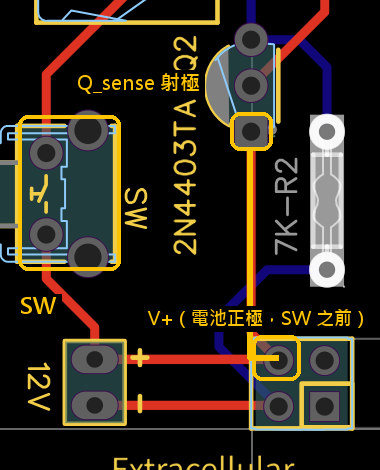
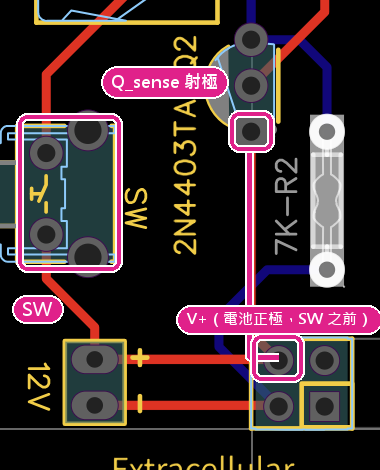
Modern Bioelectricity: caption under the title, magenta marks on the handout crops, sidebar follows tall regions [MB-018]

diff --git a/modern-bioelectricity/hw2-lab/app.js b/modern-bioelectricity/hw2-lab/app.js
@@ -490,20 +490,32 @@
     $$('.mode button').forEach(function(b){ b.setAttribute('aria-pressed', b.dataset.mode === m ? 'true' : 'false'); });
     Object.keys(SIMS).forEach(function(k){ var s = SIMS[k]; syncControls(s); drawSchematic(s); });
     if(active){ var a = active; active = null; activate(a); }
+    queueNav();                                        /* region heights change with the mode */
   }
   $$('.mode button').forEach(function(b){ b.addEventListener('click', function(){ setMode(b.dataset.mode); }); });
 
-  var navLinks = $$('nav.regions a');
+  /* sims start when half their region is on screen (they are one screen tall) */
   var io = new IntersectionObserver(function(entries){
     entries.forEach(function(e){
-      if(e.isIntersecting && e.intersectionRatio >= 0.5){
-        navLinks.forEach(function(a){ a.classList.toggle('on', a.getAttribute('href') === '#' + e.target.id); });
-        var key = e.target.dataset.sim;
-        if(key){ var s = SIMS[key]; activate(s); sizeCanvas(s); }
-      }
+      if(e.isIntersecting && e.intersectionRatio >= 0.5){ var s = SIMS[e.target.dataset.sim]; activate(s); sizeCanvas(s); }
     });
   }, {root:$('#main'), threshold:[0.5]});
-  $$('.region').forEach(function(r){ io.observe(r); });
+  $$('.region[data-sim]').forEach(function(r){ io.observe(r); });
+  /* sidebar: the region crossing the upper third of the screen.  A ratio threshold misses text regions
+     taller than two screens, which never get half on screen. */
+  var navLinks = $$('nav.regions a'), regions = $$('.region'), navOn = null;
+  function syncNav(){
+    var cut = window.innerHeight * 0.33, cur = regions[0];
+    regions.forEach(function(r){ if(r.offsetParent !== null && r.getBoundingClientRect().top <= cut) cur = r; });
+    if(cur === navOn) return;
+    navOn = cur;
+    navLinks.forEach(function(a){ a.classList.toggle('on', a.getAttribute('href') === '#' + cur.id); });
+  }
+  function queueNav(){ syncNav(); }                 /* scroll events come once a frame; six rects are cheap */
+  $('#main').addEventListener('scroll', queueNav, {passive:true});
+  window.addEventListener('scroll', queueNav, {passive:true});        /* phones: the page itself scrolls */
+  window.addEventListener('resize', queueNav);
+  syncNav();
 
   $$('[data-fs]').forEach(function(b){
     b.addEventListener('click', function(){

diff --git a/modern-bioelectricity/hw2-lab/index.html b/modern-bioelectricity/hw2-lab/index.html
@@ -133,7 +133,7 @@ select,input[type=number]{font-size:12.5px;padding:2px 4px;border:1px solid var(
 .small{font-size:12.5px} .muted{color:var(--muted)}
 
 /* ---------- 0 電路圖與 PCB 的差別 ---------- */
-.r0-one{font-size:18px;font-weight:700;line-height:1.5;margin:4px 0 10px;max-width:60em}
+.r0-one{font-size:15px;font-weight:500;line-height:1.55;margin:2px 0 10px;max-width:60em;color:var(--muted)}
 .r0-big{margin:0 0 10px;background:var(--surface);border:1px solid var(--rule);border-radius:8px;padding:6px}
 .r0-big figcaption{font-size:12.5px;color:var(--muted);margin:4px 2px 0}
 .r0-ov{display:block;width:100%;height:auto;border-radius:4px}
@@ -237,7 +237,7 @@ select,input[type=number]{font-size:12.5px;padding:2px 4px;border:1px solid var(
 <!-- ======================= 0 電路圖與 PCB 的差別 ======================= -->
 <section class="region textreg" id="r0">
   <h2>0 電路圖與 PCB 的差別</h2>
-  <p class="r0-one">PCB 有 3 處接得和講義電路圖不同：照 PCB 做，膜沒有靜止電位，也做不出 AP。</p>
+  <p class="r0-one">底圖：講義的 #2-3 電路圖。<span class="k-p">紅色</span>＝PCB 實際的接法。<b>點紅色標記</b>看這個差別造成什麼問題。</p>
   <figure class="r0-big">
     <svg class="r0-ov" viewBox="0 0 1185 432" role="group" aria-label="講義 #2-3 電路圖，紅色標出 PCB 實際的接法">
       <rect x="0" y="0" width="1185" height="432" fill="#fff"/>
@@ -279,7 +279,6 @@ select,input[type=number]{font-size:12.5px;padding:2px 4px;border:1px solid var(
         <g class="badge"><circle cx="922" cy="282" r="13"/><text x="922" y="287.5">3</text></g>
       </g>
     </svg>
-    <figcaption>底圖：講義的 #2-3 電路圖。<span class="k-p">紅色</span>＝PCB 實際的接法。<b>點紅色標記</b>看這個差別造成什麼問題。</figcaption>
   </figure>
 
   <details class="card r0-more"><summary>數字對照：照電路圖 vs 照 PCB vs 實測<span class="hint">模擬與我們組的量測</span></summary><div class="body">

diff --git a/modern-bioelectricity/log/2026-10.md b/modern-bioelectricity/log/2026-10.md
@@ -136,3 +136,22 @@
 - 檔案／commit：`hw2-lab/index.html`、`hw2-lab/app.js`、`hw2-lab/img/`（sch23.png 與 d1–d3 的裁切圖，從講義 docx 取出並標記）
 - 測試：瀏覽器確認三個標記位置正確、hover 發光、點擊開窗與關閉、圖片載入；手機寬度無水平捲動、視窗內圖改成上下排。
 - 狀態：有效
+
+## MB-017 · 2026-10-16 · 指令
+- 提出：使用者
+- 指令：
+  > 1. "底圖：講義的 #2-3 電路圖。紅色＝PCB 實際的接法。點紅色標記看這個差別造成什麼問題。" 這句話改到標題下方，"PCB 有 3 處接得和講義電路圖不同：照 PCB 做，膜沒有靜止電位，也做不出 AP。" 這句刪掉。
+  > 2. "電路圖與 PCB 的差別" 展開圖的標記換顏色。目前電路圖用紅色而 PCB 用黃黑，很醜而且和PCB本身融為一體，很不明顯。選一個在 電路圖和PCB 都明顯可見的有質感一些的配色，
+  > 3. sidebar 換區域的時候框框沒有跟上
+- 相關：MB-018
+- 狀態：完成
+
+## MB-018 · 2026-10-16 · 變更
+- 提出：使用者（MB-017）
+- 做了：
+  - 說明句移到「0 電路圖與 PCB 的差別」標題下方，刪掉結論句。
+  - 視窗裡的講義裁切圖（d1–d3）全部改用同一個標記色：洋紅 #E0218A 外加白色細邊；文字改成洋紅底白字的膠囊標籤。白底電路圖和黑底 PCB 上都清楚，也不會和 PCB 本身的紅、藍走線與黃色絲印混在一起。大圖上的紅色 PCB 接法不變。
+  - 側欄框框：原本用「區域有 50 % 在畫面裡」判斷，比兩個畫面還高的文字區域（1 摘要：基礎 2432 px、進階 4286 px）永遠到不了 50 %，框框就停在上一個。改成「跨過畫面上方 1/3 的那個區域」，捲動時直接更新；模擬啟動仍用 50 % 規則（模擬區都是一個畫面高）。手機版（整頁捲動）也會更新。
+- 檔案／commit：`hw2-lab/index.html`、`hw2-lab/app.js`、`hw2-lab/img/d1–d3-*.png`
+- 測試：真實滾輪捲動到 1 摘要中段時框在 #r1、到 #2-1 時在 #r2（手機版）；桌面版送出捲動事件後依序是 r1、r3、r5；切換基礎／進階後重新判斷。
+- 狀態：有效

diff --git a/modern-bioelectricity/log/INDEX.md b/modern-bioelectricity/log/INDEX.md
@@ -20,3 +20,5 @@
 | MB-014 | 2026-10-16 | 指令 | 講義檔已放入；差別圖拿掉 SO R2；改成一張以 #2-3 電路圖為底、可點擊的大圖 | hw2-lab, pcb | 完成 |
 | MB-015 | 2026-10-16 | 測試 | 用講義 PCB 圖確認 3 處差別；R2 100 Ω 是料給錯；絲印 12V、可變電阻 10 kΩ；重算照電路圖 8.36 V | hw2, pcb, 講義 | 有效 |
 | MB-016 | 2026-10-16 | 變更 | 差別區改成一張大圖：講義 #2-3 電路圖＋紅色 PCB 接法，hover 發光、點擊開窗 | hw2-lab, pcb | 有效 |
+| MB-017 | 2026-10-16 | 指令 | 差別區：說明句移到標題下；裁切圖標記換色；側欄框框沒跟上 | hw2-lab, pcb, 側欄 | 完成 |
+| MB-018 | 2026-10-16 | 變更 | 裁切圖標記改洋紅＋白邊；側欄改用「跨過畫面上方 1/3 的區域」判斷 | hw2-lab, pcb, 側欄 | 有效 |
